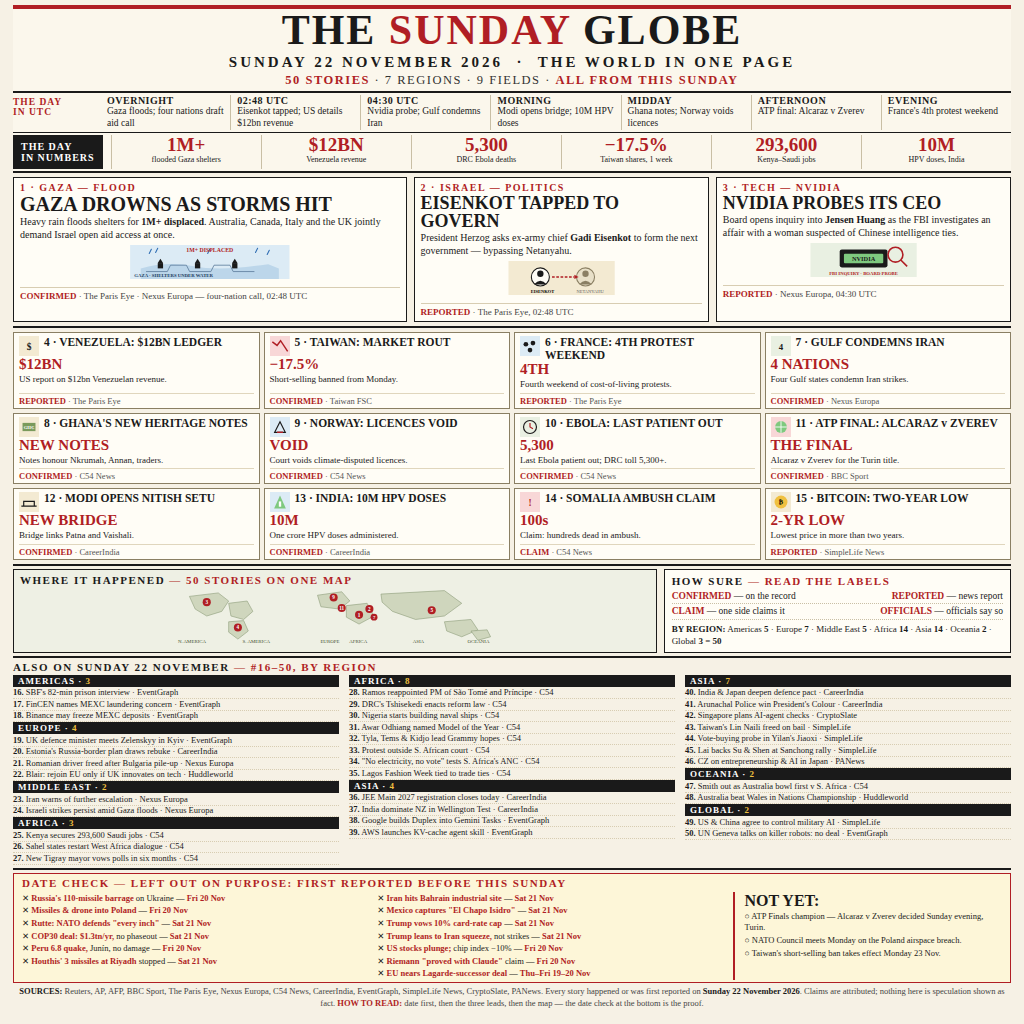
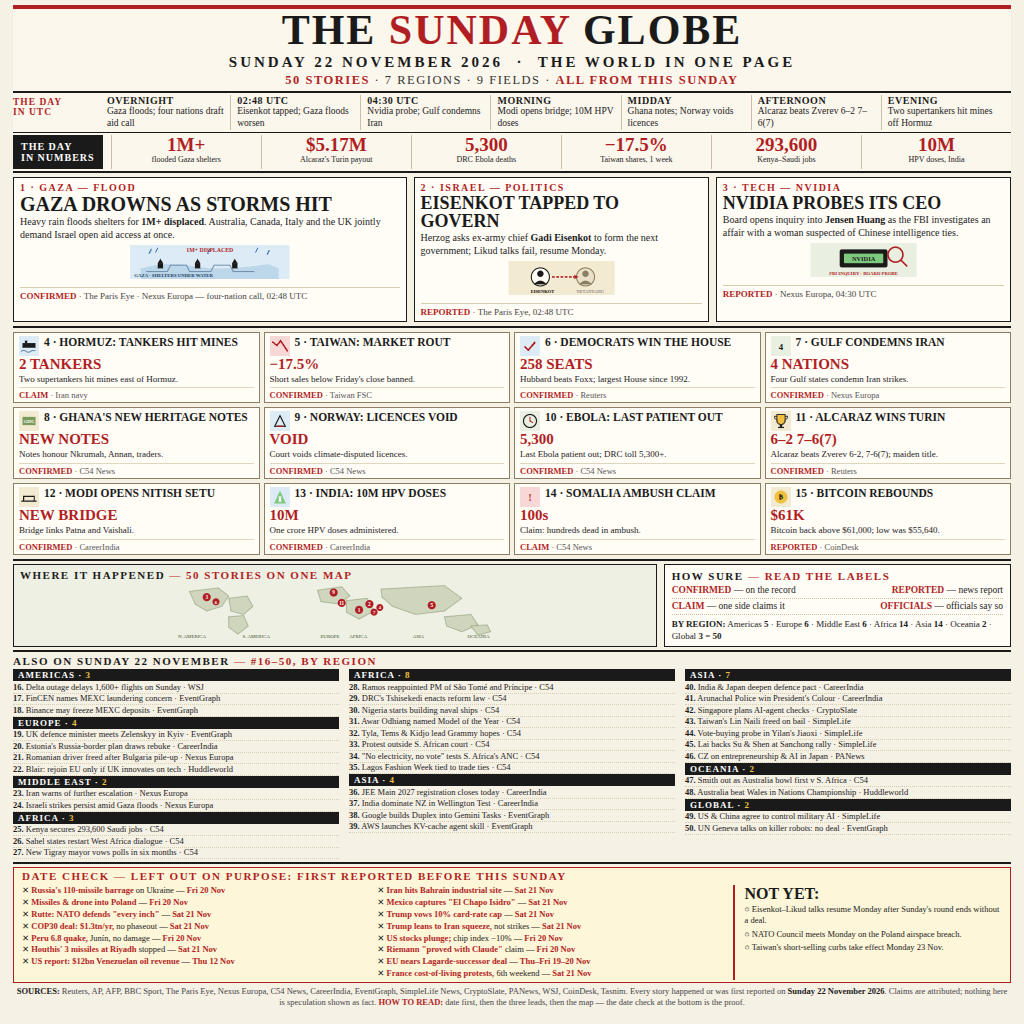
Round 2: Sunday 22 November 2026 - 50 stories, UTC timeline, DATE CHECK

diff --git a/page.html b/page.html
@@ -76,11 +76,11 @@
   .col li b { color:#b01e24; }
   .col li .n { font-weight:900; }
   /* ---------- date check ---------- */
-  .dc { background:#fdf6d8; border:1.5px solid #b01e24; margin-top:3px; padding:3px 8px 2px; }
+  .dc { background:#fdf6d8; border:1.5px solid #b01e24; margin-top:3px; padding:2px 8px 2px; }
   .dc h4 { font-size:11px; letter-spacing:1.5px; font-weight:900; color:#b01e24; }
   .dc .grid { display:flex; gap:12px; margin-top:3px; }
   .dc ul { list-style:none; flex:1; }
-  .dc li { font-size:8.5px; line-height:1.25; padding:1px 0; }
+  .dc li { font-size:8.5px; line-height:1.15; padding:1px 0; }
   .dc li b { color:#b01e24; }
   .dc .ny { border-left:2px solid #b01e24; padding-left:10px; flex:0.75; }
   .dc .ny div { font-size:8.5px; line-height:1.3; padding:1px 0; }
@@ -93,6 +93,7 @@
 <body>
 <div class="page">
 
+  <!-- ROUND 2 — late refresh: Sunday evening results (Alcaraz, Hormuz, Bitcoin rebound) -->
   <div class="mast">
     <h1>THE <span class="red">SUNDAY</span> GLOBE</h1>
     <div class="dateline">SUNDAY 22 NOVEMBER 2026 &nbsp;·&nbsp; THE WORLD IN ONE PAGE</div>
@@ -103,19 +104,19 @@
     <div class="lab">THE DAY<br>IN UTC</div>
     <div class="slots">
       <div class="slot"><div class="t">OVERNIGHT</div><div class="e">Gaza floods; four nations draft aid call</div></div>
-      <div class="slot"><div class="t">02:48 UTC</div><div class="e">Eisenkot tapped; US details $12bn revenue</div></div>
+      <div class="slot"><div class="t">02:48 UTC</div><div class="e">Eisenkot tapped; Gaza floods worsen</div></div>
       <div class="slot"><div class="t">04:30 UTC</div><div class="e">Nvidia probe; Gulf condemns Iran</div></div>
       <div class="slot"><div class="t">MORNING</div><div class="e">Modi opens bridge; 10M HPV doses</div></div>
       <div class="slot"><div class="t">MIDDAY</div><div class="e">Ghana notes; Norway voids licences</div></div>
-      <div class="slot"><div class="t">AFTERNOON</div><div class="e">ATP final: Alcaraz v Zverev</div></div>
-      <div class="slot"><div class="t">EVENING</div><div class="e">France's 4th protest weekend</div></div>
+      <div class="slot"><div class="t">AFTERNOON</div><div class="e">Alcaraz beats Zverev 6–2 7–6(7)</div></div>
+      <div class="slot"><div class="t">EVENING</div><div class="e">Two supertankers hit mines off Hormuz</div></div>
     </div>
   </div>
 
   <div class="nums">
     <div class="lab">THE DAY<br>IN NUMBERS</div>
     <div class="num"><div class="v">1M+</div><div class="k">flooded Gaza shelters</div></div>
-    <div class="num"><div class="v">$12BN</div><div class="k">Venezuela revenue</div></div>
+    <div class="num"><div class="v">$5.17M</div><div class="k">Alcaraz's Turin payout</div></div>
     <div class="num"><div class="v">5,300</div><div class="k">DRC Ebola deaths</div></div>
     <div class="num"><div class="v">−17.5%</div><div class="k">Taiwan shares, 1 week</div></div>
     <div class="num"><div class="v">293,600</div><div class="k">Kenya–Saudi jobs</div></div>
@@ -141,7 +142,7 @@
     <div class="bcard">
       <div class="kick">2 · ISRAEL — POLITICS</div>
       <h2>EISENKOT TAPPED TO GOVERN</h2>
-      <div class="deck">President Herzog asks ex-army chief <b>Gadi Eisenkot</b> to form the next government — bypassing Netanyahu.</div>
+      <div class="deck">Herzog asks ex-army chief <b>Gadi Eisenkot</b> to form the next government; Likud talks fail, resume Monday.</div>
       <div class="art"><svg viewBox="0 0 200 64">
         <rect x="0" y="0" width="200" height="64" fill="#f3ead2"/>
         <circle cx="60" cy="30" r="17" fill="#fffdf6" stroke="#1a1a1a" stroke-width="2"/>
@@ -173,18 +174,18 @@
   </div>
 
   <div class="mid">
-    <div class="mcard"><div class="top"><div class="ic"><svg viewBox="0 0 34 34"><rect width="34" height="34" fill="#f3ead2"/><text x="17" y="23" font-size="16" font-weight="bold" text-anchor="middle" fill="#1a1a1a">$</text></svg></div><h3>4 · VENEZUELA: $12BN LEDGER</h3></div><div class="call">$12BN</div><div class="d">US report on $12bn Venezuelan revenue.</div><div class="s"><b>REPORTED</b> · The Paris Eye</div></div>
-    <div class="mcard"><div class="top"><div class="ic"><svg viewBox="0 0 34 34"><rect width="34" height="34" fill="#f8d7d7"/><polyline points="4,10 12,16 18,8 30,26" fill="none" stroke="#b01e24" stroke-width="2.5"/></svg></div><h3>5 · TAIWAN: MARKET ROUT</h3></div><div class="call">−17.5%</div><div class="d">Short-selling banned from Monday.</div><div class="s"><b>CONFIRMED</b> · Taiwan FSC</div></div>
-    <div class="mcard"><div class="top"><div class="ic"><svg viewBox="0 0 34 34"><rect width="34" height="34" fill="#dcebf5"/><circle cx="10" cy="14" r="4" fill="#1a1a1a"/><circle cx="22" cy="12" r="4" fill="#1a1a1a"/><circle cx="17" cy="24" r="4" fill="#1a1a1a"/></svg></div><h3>6 · FRANCE: 4TH PROTEST WEEKEND</h3></div><div class="call">4TH</div><div class="d">Fourth weekend of cost-of-living protests.</div><div class="s"><b>REPORTED</b> · The Paris Eye</div></div>
+    <div class="mcard"><div class="top"><div class="ic"><svg viewBox="0 0 34 34"><rect width="34" height="34" fill="#dcebf5"/><rect x="6" y="12" width="22" height="8" fill="#1a1a1a"/><rect x="10" y="8" width="4" height="4" fill="#1a1a1a"/><path d="M4 26 q4 -3 8 0 t8 0 t8 0" fill="none" stroke="#5b7a99" stroke-width="1.5"/></svg></div><h3>4 · HORMUZ: TANKERS HIT MINES</h3></div><div class="call">2 TANKERS</div><div class="d">Two supertankers hit mines east of Hormuz.</div><div class="s"><b>CLAIM</b> · Iran navy</div></div>
+    <div class="mcard"><div class="top"><div class="ic"><svg viewBox="0 0 34 34"><rect width="34" height="34" fill="#f8d7d7"/><polyline points="4,10 12,16 18,8 30,26" fill="none" stroke="#b01e24" stroke-width="2.5"/></svg></div><h3>5 · TAIWAN: MARKET ROUT</h3></div><div class="call">−17.5%</div><div class="d">Short sales below Friday's close banned.</div><div class="s"><b>CONFIRMED</b> · Taiwan FSC</div></div>
+    <div class="mcard"><div class="top"><div class="ic"><svg viewBox="0 0 34 34"><rect width="34" height="34" fill="#dcebf5"/><path d="M8 18 l6 6 l12 -14" fill="none" stroke="#b01e24" stroke-width="3"/></svg></div><h3>6 · DEMOCRATS WIN THE HOUSE</h3></div><div class="call">258 SEATS</div><div class="d">Hubbard beats Foxx; largest House since 1992.</div><div class="s"><b>CONFIRMED</b> · Reuters</div></div>
     <div class="mcard"><div class="top"><div class="ic"><svg viewBox="0 0 34 34"><rect width="34" height="34" fill="#e9f0e2"/><text x="17" y="23" font-size="15" font-weight="bold" text-anchor="middle" fill="#1a1a1a">4</text></svg></div><h3>7 · GULF CONDEMNS IRAN</h3></div><div class="call">4 NATIONS</div><div class="d">Four Gulf states condemn Iran strikes.</div><div class="s"><b>CONFIRMED</b> · Nexus Europa</div></div>
     <div class="mcard"><div class="top"><div class="ic"><svg viewBox="0 0 34 34"><rect width="34" height="34" fill="#f3ead2"/><rect x="6" y="10" width="22" height="14" fill="#7a9a5b"/><text x="17" y="20" font-size="8" font-weight="bold" text-anchor="middle" fill="#fff">GH₵</text></svg></div><h3>8 · GHANA'S NEW HERITAGE NOTES</h3></div><div class="call">NEW NOTES</div><div class="d">Notes honour Nkrumah, Annan, traders.</div><div class="s"><b>CONFIRMED</b> · C54 News</div></div>
     <div class="mcard"><div class="top"><div class="ic"><svg viewBox="0 0 34 34"><rect width="34" height="34" fill="#dcebf5"/><path d="M8 26 L17 8 L26 26 Z" fill="none" stroke="#1a1a1a" stroke-width="2"/><line x1="12" y1="26" x2="22" y2="26" stroke="#b01e24" stroke-width="2.5"/></svg></div><h3>9 · NORWAY: LICENCES VOID</h3></div><div class="call">VOID</div><div class="d">Court voids climate-disputed licences.</div><div class="s"><b>CONFIRMED</b> · C54 News</div></div>
     <div class="mcard"><div class="top"><div class="ic"><svg viewBox="0 0 34 34"><rect width="34" height="34" fill="#e9f0e2"/><circle cx="17" cy="17" r="11" fill="none" stroke="#1a1a1a" stroke-width="2"/><path d="M17 10 v7 l5 3" stroke="#b01e24" stroke-width="2" fill="none"/></svg></div><h3>10 · EBOLA: LAST PATIENT OUT</h3></div><div class="call">5,300</div><div class="d">Last Ebola patient out; DRC toll 5,300+.</div><div class="s"><b>CONFIRMED</b> · C54 News</div></div>
-    <div class="mcard"><div class="top"><div class="ic"><svg viewBox="0 0 34 34"><rect width="34" height="34" fill="#f8d7d7"/><circle cx="17" cy="17" r="10" fill="#7fc97f"/><path d="M17 7 v20 M7 17 h20" stroke="#fff" stroke-width="1.5"/></svg></div><h3>11 · ATP FINAL: ALCARAZ v ZVEREV</h3></div><div class="call">THE FINAL</div><div class="d">Alcaraz v Zverev for the Turin title.</div><div class="s"><b>CONFIRMED</b> · BBC Sport</div></div>
+    <div class="mcard"><div class="top"><div class="ic"><svg viewBox="0 0 34 34"><rect width="34" height="34" fill="#f3ead2"/><path d="M10 6 h14 v10 a7 7 0 0 1 -14 0 Z" fill="#f0c040" stroke="#1a1a1a" stroke-width="1.5"/><path d="M10 9 h-4 a4 4 0 0 0 4 5 M24 9 h4 a4 4 0 0 1 -4 5" fill="none" stroke="#1a1a1a" stroke-width="1.5"/><rect x="15" y="23" width="4" height="4" fill="#1a1a1a"/><rect x="12" y="27" width="10" height="2" fill="#1a1a1a"/></svg></div><h3>11 · ALCARAZ WINS TURIN</h3></div><div class="call">6–2 7–6(7)</div><div class="d">Alcaraz beats Zverev 6-2, 7-6(7); maiden title.</div><div class="s"><b>CONFIRMED</b> · Reuters</div></div>
     <div class="mcard"><div class="top"><div class="ic"><svg viewBox="0 0 34 34"><rect width="34" height="34" fill="#f3ead2"/><path d="M4 24 h26 M8 24 v-8 h18 v8" fill="none" stroke="#1a1a1a" stroke-width="2"/></svg></div><h3>12 · MODI OPENS NITISH SETU</h3></div><div class="call">NEW BRIDGE</div><div class="d">Bridge links Patna and Vaishali.</div><div class="s"><b>CONFIRMED</b> · CareerIndia</div></div>
     <div class="mcard"><div class="top"><div class="ic"><svg viewBox="0 0 34 34"><rect width="34" height="34" fill="#dcebf5"/><path d="M17 6 L27 28 H7 Z" fill="#7fc97f"/><rect x="15" y="16" width="4" height="9" fill="#fff"/></svg></div><h3>13 · INDIA: 10M HPV DOSES</h3></div><div class="call">10M</div><div class="d">One crore HPV doses administered.</div><div class="s"><b>CONFIRMED</b> · CareerIndia</div></div>
     <div class="mcard"><div class="top"><div class="ic"><svg viewBox="0 0 34 34"><rect width="34" height="34" fill="#f8d7d7"/><text x="17" y="23" font-size="16" font-weight="bold" text-anchor="middle" fill="#b01e24">!</text></svg></div><h3>14 · SOMALIA AMBUSH CLAIM</h3></div><div class="call">100s</div><div class="d">Claim: hundreds dead in ambush.</div><div class="s"><b>CLAIM</b> · C54 News</div></div>
-    <div class="mcard"><div class="top"><div class="ic"><svg viewBox="0 0 34 34"><rect width="34" height="34" fill="#f3ead2"/><circle cx="17" cy="17" r="11" fill="#f0c040"/><text x="17" y="21" font-size="11" font-weight="bold" text-anchor="middle">₿</text></svg></div><h3>15 · BITCOIN: TWO-YEAR LOW</h3></div><div class="call">2-YR LOW</div><div class="d">Lowest price in more than two years.</div><div class="s"><b>REPORTED</b> · SimpleLife News</div></div>
+    <div class="mcard"><div class="top"><div class="ic"><svg viewBox="0 0 34 34"><rect width="34" height="34" fill="#f3ead2"/><circle cx="17" cy="17" r="11" fill="#f0c040"/><text x="17" y="21" font-size="11" font-weight="bold" text-anchor="middle">₿</text></svg></div><h3>15 · BITCOIN REBOUNDS</h3></div><div class="call">$61K</div><div class="d">Bitcoin back above $61,000; low was $55,640.</div><div class="s"><b>REPORTED</b> · CoinDesk</div></div>
   </div>
 
   <div class="maprow">
@@ -204,12 +205,13 @@
         </g>
         <g fill="#b01e24" font-size="9" font-weight="bold" text-anchor="middle">
           <circle cx="58" cy="28" r="7"/><text x="58" y="31" fill="#fff">3</text>
-          <circle cx="112" cy="72" r="7"/><text x="112" y="75" fill="#fff">4</text>
+          <circle cx="74" cy="36" r="6"/><text x="74" y="39" fill="#fff" font-size="8">6</text>
           <circle cx="278" cy="20" r="7"/><text x="278" y="23" fill="#fff">9</text>
           <circle cx="292" cy="38" r="7"/><text x="292" y="41" fill="#fff">11</text>
           <circle cx="322" cy="50" r="7"/><text x="322" y="53" fill="#fff">1</text>
           <circle cx="340" cy="40" r="7"/><text x="340" y="43" fill="#fff">2</text>
           <circle cx="348" cy="54" r="6"/><text x="348" y="57" fill="#fff" font-size="8">7</text>
+          <circle cx="358" cy="46" r="6"/><text x="358" y="49" fill="#fff" font-size="8">4</text>
           <circle cx="448" cy="42" r="7"/><text x="448" y="45" fill="#fff">5</text>
         </g>
         <g font-size="8.5" fill="#44502f"><text x="8" y="98">N. AMERICA</text><text x="120" y="98">S. AMERICA</text><text x="255" y="98">EUROPE</text><text x="305" y="98">AFRICA</text><text x="415" y="98">ASIA</text><text x="510" y="98">OCEANIA</text></g>
@@ -219,7 +221,7 @@
       <h4>HOW SURE <span>— READ THE LABELS</span></h4>
       <div class="row"><span><b>CONFIRMED</b> — on the record</span><span><b>REPORTED</b> — news report</span></div>
       <div class="row"><span><b>CLAIM</b> — one side claims it</span><span><b>OFFICIALS</b> — officials say so</span></div>
-      <p><b>BY REGION:</b> Americas <b>5</b> · Europe <b>7</b> · Middle East <b>5</b> · Africa <b>14</b> · Asia <b>14</b> · Oceania <b>2</b> · Global <b>3</b> = <b>50</b></p>
+      <p><b>BY REGION:</b> Americas <b>5</b> · Europe <b>6</b> · Middle East <b>6</b> · Africa <b>14</b> · Asia <b>14</b> · Oceania <b>2</b> · Global <b>3</b> = <b>50</b></p>
     </div>
   </div>
 
@@ -229,7 +231,7 @@
       <div class="col">
         <h5>AMERICAS · <span>3</span></h5>
         <ol>
-          <li><span class="n">16.</span> SBF's 82-min prison interview · EventGraph</li>
+          <li><span class="n">16.</span> Delta outage delays 1,600+ flights on Sunday · WSJ</li>
           <li><span class="n">17.</span> FinCEN names MEXC laundering concern · EventGraph</li>
           <li><span class="n">18.</span> Binance may freeze MEXC deposits · EventGraph</li>
         </ol>
@@ -297,6 +299,7 @@
     </div>
   </div>
 
+  <!-- DATE CHECK: 15 excluded, 3 not yet — pre-Sunday stories stay out of the illustration -->
   <div class="dc">
     <h4>DATE CHECK — LEFT OUT ON PURPOSE: FIRST REPORTED BEFORE THIS SUNDAY</h4>
     <div class="grid">
@@ -307,6 +310,7 @@
         <li>✕ <b>COP30 deal: $1.3tn/yr,</b> no phaseout — <b>Sat 21 Nov</b></li>
         <li>✕ <b>Peru 6.8 quake,</b> Junín, no damage — <b>Fri 20 Nov</b></li>
         <li>✕ <b>Houthis' 3 missiles at Riyadh</b> stopped — <b>Sat 21 Nov</b></li>
+        <li>✕ <b>US report: $12bn Venezuelan oil revenue</b> — <b>Thu 12 Nov</b></li>
       </ul>
       <ul>
         <li>✕ <b>Iran hits Bahrain industrial site</b> — <b>Sat 21 Nov</b></li>
@@ -316,18 +320,19 @@
         <li>✕ <b>US stocks plunge;</b> chip index −10% — <b>Fri 20 Nov</b></li>
         <li>✕ <b>Riemann "proved with Claude"</b> claim — <b>Fri 20 Nov</b></li>
         <li>✕ <b>EU nears Lagarde-successor deal</b> — <b>Thu–Fri 19–20 Nov</b></li>
+        <li>✕ <b>France cost-of-living protests,</b> 6th weekend — <b>Sat 21 Nov</b></li>
       </ul>
       <div class="ny">
         <b>NOT YET:</b>
-        <div>○ ATP Finals champion — Alcaraz v Zverev decided Sunday evening, Turin.</div>
+        <div>○ Eisenkot–Likud talks resume Monday after Sunday's round ends without a deal.</div>
         <div>○ NATO Council meets Monday on the Poland airspace breach.</div>
-        <div>○ Taiwan's short-selling ban takes effect Monday 23 Nov.</div>
+        <div>○ Taiwan's short-selling curbs take effect Monday 23 Nov.</div>
       </div>
     </div>
   </div>
 
   <div class="foot">
-    <b>SOURCES:</b> Reuters, AP, AFP, BBC Sport, The Paris Eye, Nexus Europa, C54 News, CareerIndia, EventGraph, SimpleLife News, CryptoSlate, PANews. Every story happened or was first reported on <b>Sunday 22 November 2026</b>. Claims are attributed; nothing here is speculation shown as fact. <span class="how">HOW TO READ:</span> date first, then the three leads, then the map — the date check at the bottom is the proof.
+    <b>SOURCES:</b> Reuters, AP, AFP, BBC Sport, The Paris Eye, Nexus Europa, C54 News, CareerIndia, EventGraph, SimpleLife News, CryptoSlate, PANews, WSJ, CoinDesk, Tasnim. Every story happened or was first reported on <b>Sunday 22 November 2026</b>. Claims are attributed; nothing here is speculation shown as fact. <span class="how">HOW TO READ:</span> date first, then the three leads, then the map — the date check at the bottom is the proof.
   </div>
 
 </div>

diff --git a/README.md b/README.md
@@ -4,7 +4,7 @@
 [![rank](https://make.fun/badge/news-image-20261122/skykc/news-image-20261122/rank.svg)](https://make.fun/bounty/news-image-20261122)
 [![reward](https://make.fun/badge/news-image-20261122/skykc/news-image-20261122/reward.svg)](https://make.fun/bounty/news-image-20261122)
 
-**Sunday 22 November 2026: Gaza floods displace 1M+, Eisenkot tapped to govern, Nvidia board probes Huang — 50 stories, a UTC timeline and a date check**
+**Sunday 22 November 2026: Alcaraz beats Zverev 6–2 7–6(7) in Turin, Gaza floods displace 1M+ — 50 stories, a UTC timeline and a date check**
 
 One image that sums up the world's news of Sunday 22 November 2026: 50 sourced
 stories (3 leads, 12 picture stories, 35 briefs by region), a UTC timeline, a world
